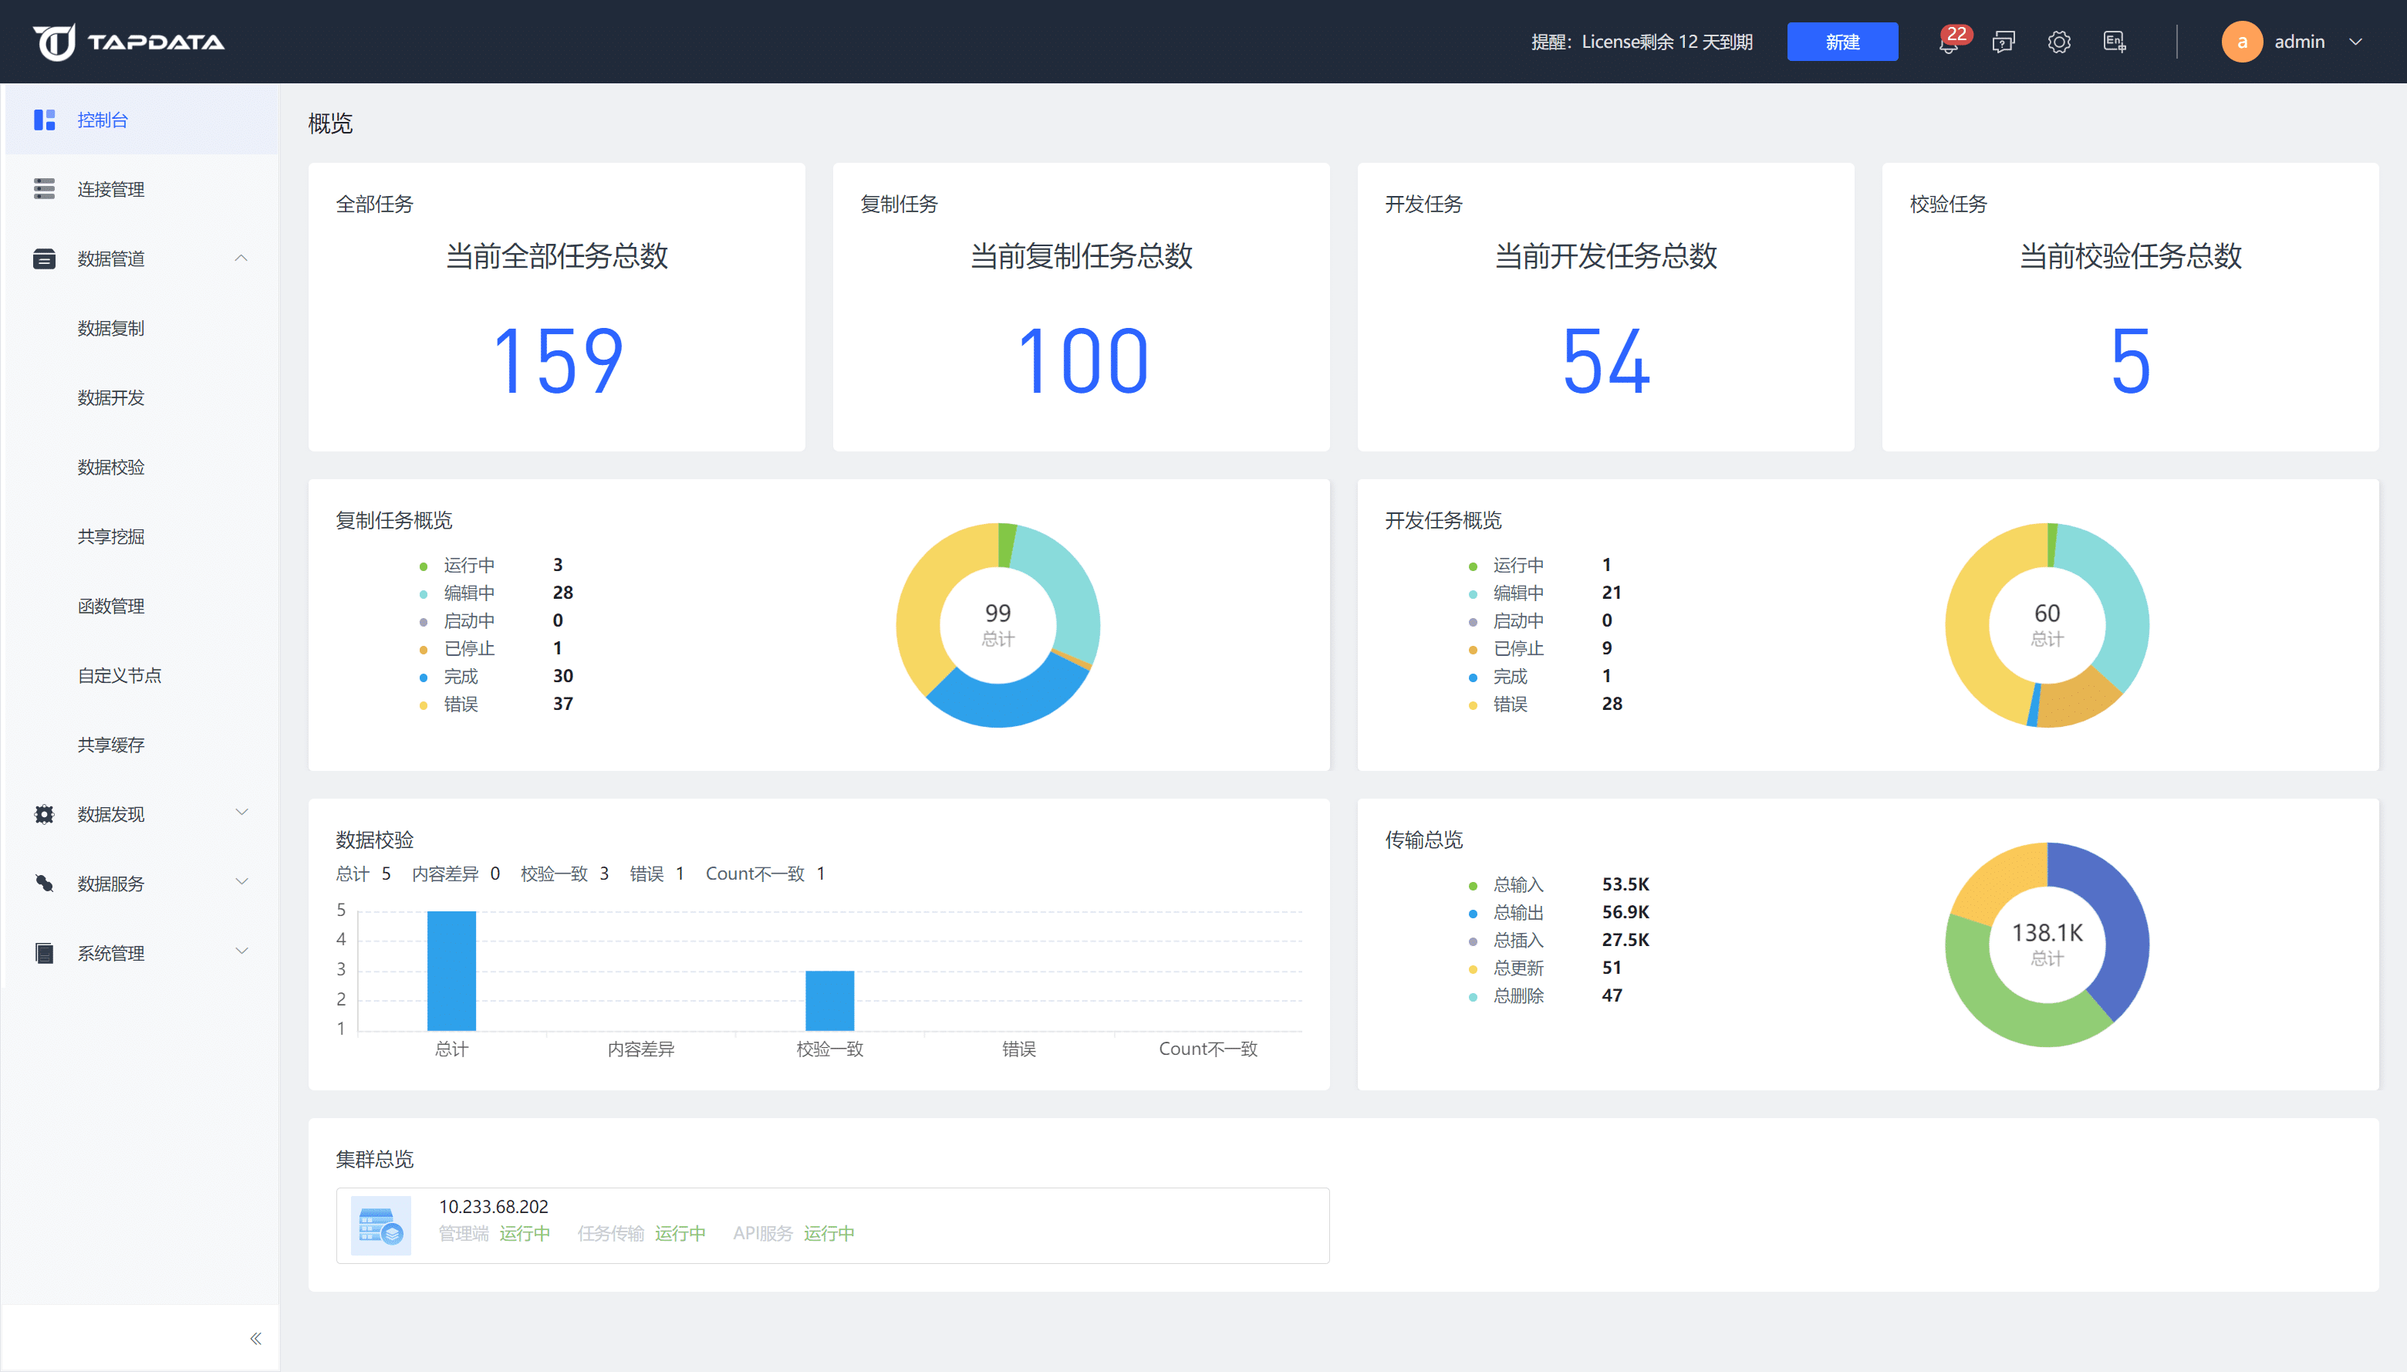
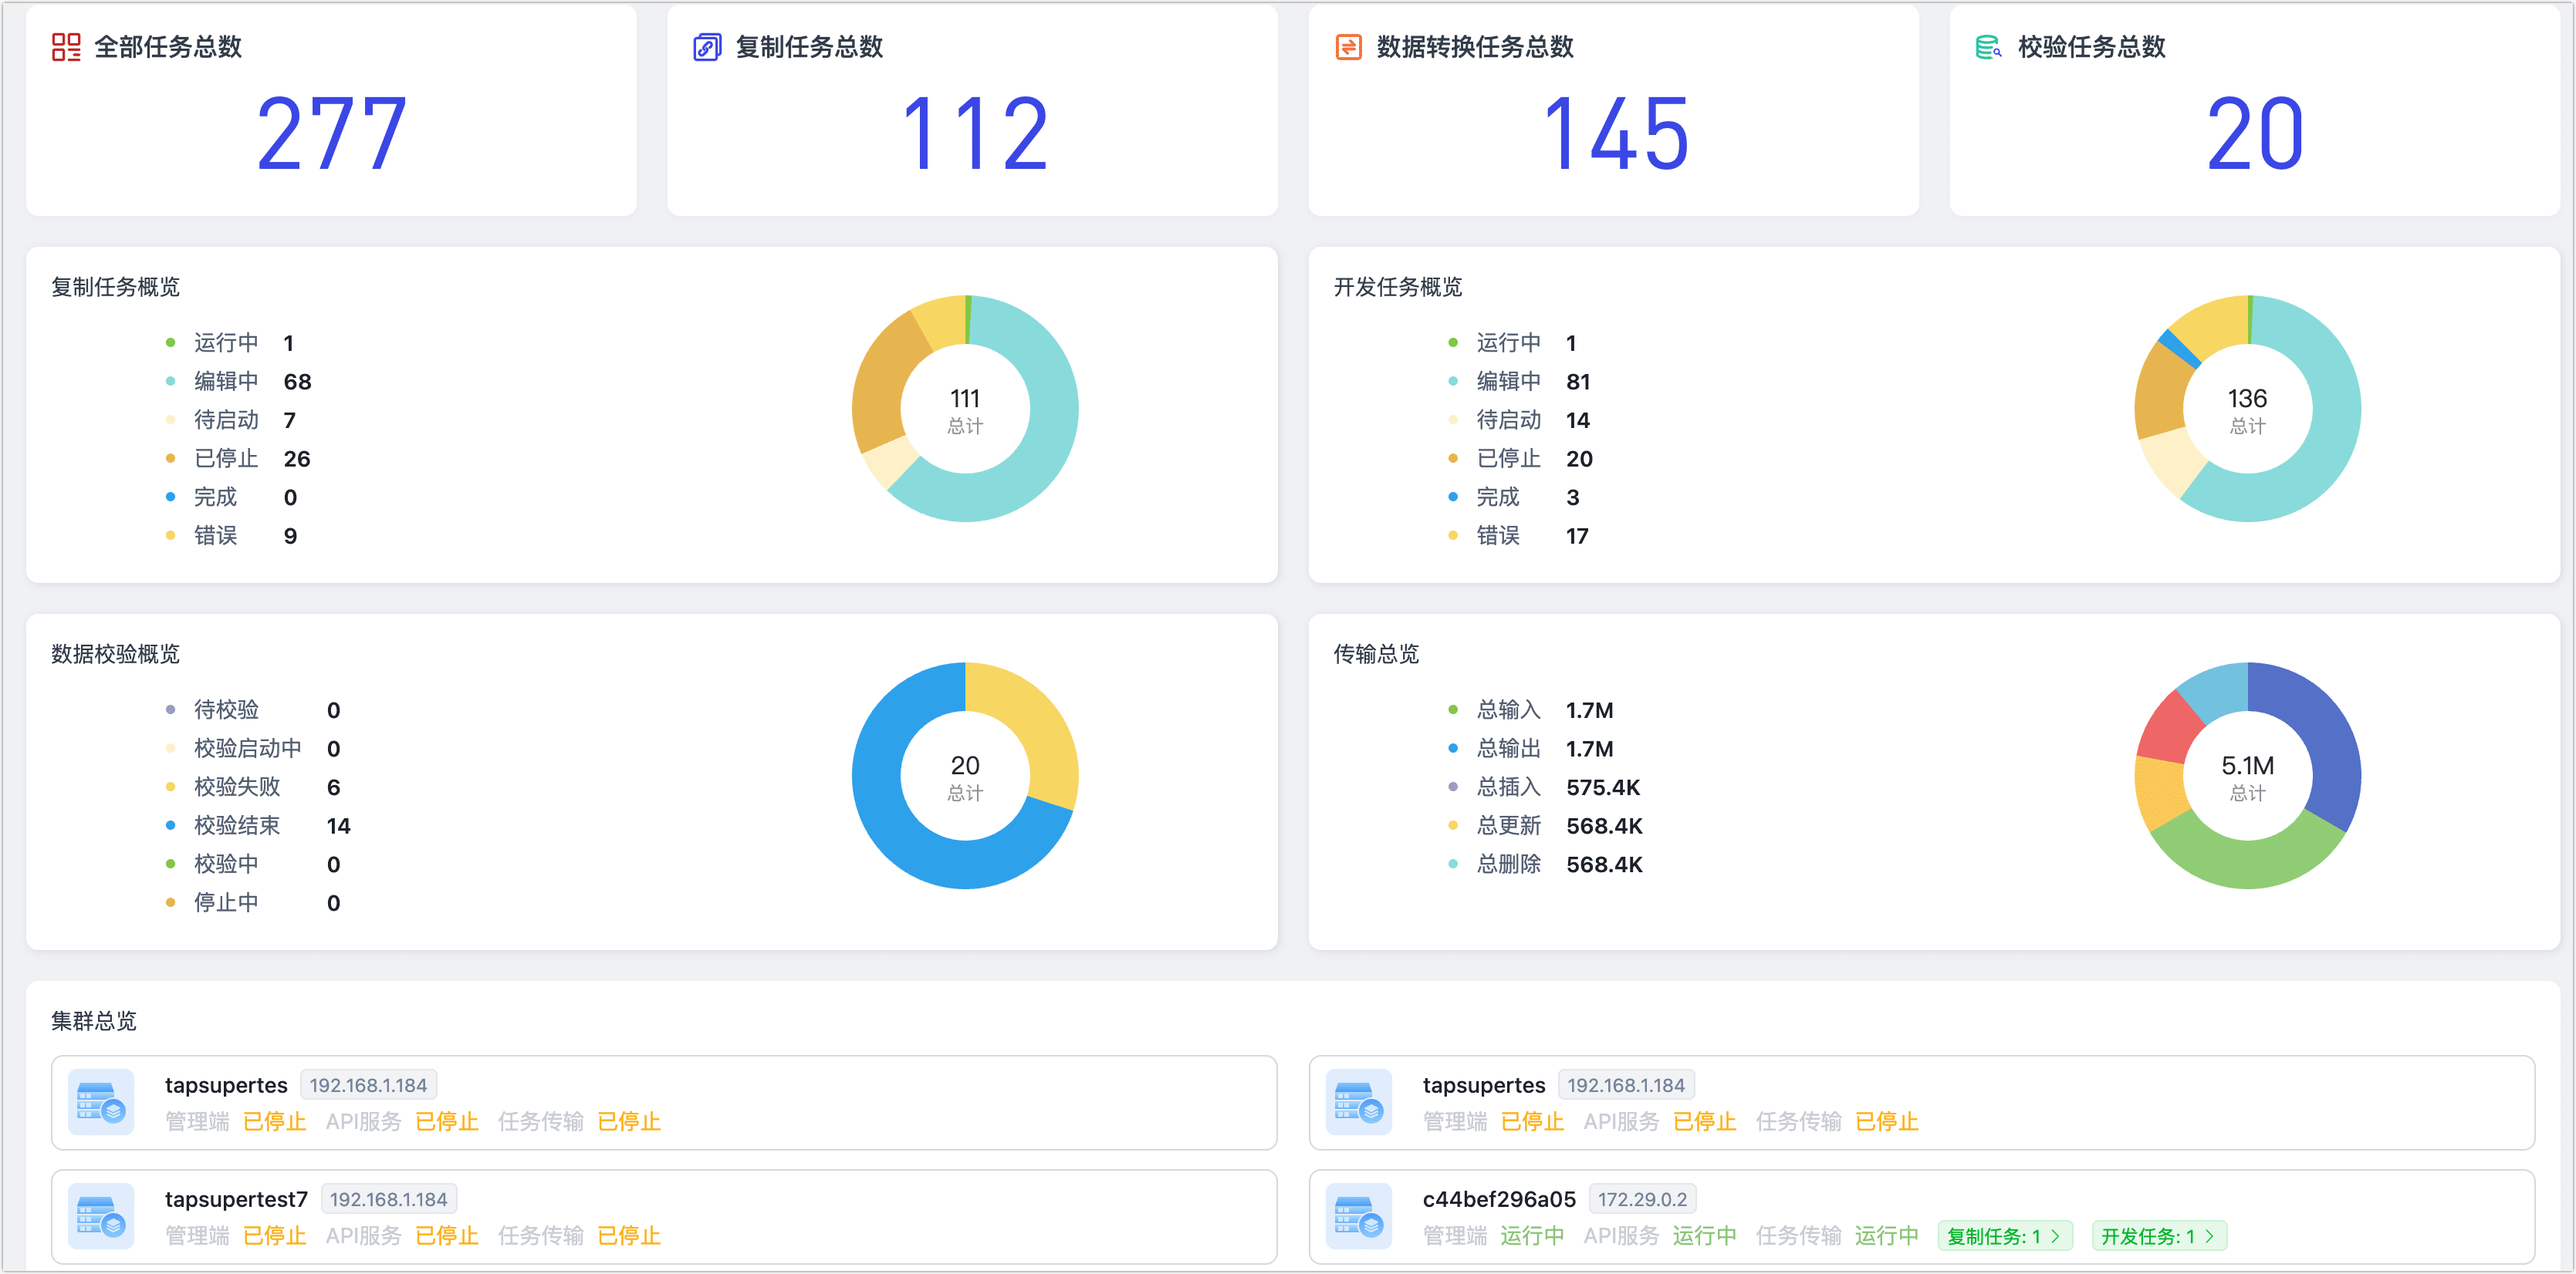
Release 3.26.0 and 3.27.0

diff --git a/docs/release-notes/release-notes-on-prem.md b/docs/release-notes/release-notes-on-prem.md
@@ -6,6 +6,22 @@ import Content from '../reuse-content/_enterprise-features.md';
 
 本文介绍 TapData Enterprise V3.x 的版本更新日志，早期版本请参见 [V2.x 版本更新日志](https://docs.tapdata.net/2.0/enterprise/release-notes)。
 
+## 3.27.0
+
+### 新增功能
+
+- 首页的[集群总览页面](../user-guide/workshop.md)支持显示各节点的任务数量分布信息，帮助您更好掌握集群负载
+- [OceanBase（MySQL 模式）](../prerequisites/on-prem-databases/oceanbase.md)、[OceanBase（Oracle 模式）](../prerequisites/on-prem-databases/oceanbase-oracle.md)、[GaussDB（DWS）](../prerequisites/warehouses-and-lake/gaussdb.md)已通过 TapData 认证测试流程，升级为[认证级别数据源](../prerequisites/supported-databases.md)，提供更丰富的特性和更高的生产稳定性
+- 数据复制任务支持将多个表写入 Kafka 的同一 Topic，丰富写入场景支持度
+
+### 功能优化
+
+- 优化模型展示效果，调整主键、外键和唯一索引的展示方式，提升模型可读性与编辑效率
+
+### 问题修复
+
+- 修复多 mongos 节点场景下连接请求未均匀分发的问题，消除潜在的单点性能瓶颈
+
 ## 3.26.0
 
 ### 新增功能
@@ -15,7 +31,7 @@ import Content from '../reuse-content/_enterprise-features.md';
 
 ### 功能优化
 
-* 优化数据校验功能，添加快速速定位和空值优先选项帮助快速检索信息
+* 优化数据校验功能，添加快速定位和空值优先选项帮助过滤信息
 
 ## 3.25.0
 

diff --git a/docs/release-notes/release-notes-community.md b/docs/release-notes/release-notes-community.md
@@ -6,6 +6,20 @@ import Content from '../reuse-content/_community-features.md';
 
 本文介绍 TapData Community 近期版本的更新日志，更多早期版本，请参见 [GitHub Release 页面](https://github.com/tapdata/tapdata/releases)。
 
+### 新增功能
+
+- 首页的[集群总览页面](../user-guide/workshop.md)支持显示各节点的任务数量分布信息，帮助您更好掌握集群负载
+- [OceanBase（MySQL 模式）](../prerequisites/on-prem-databases/oceanbase.md)、[GaussDB（DWS）](../prerequisites/warehouses-and-lake/gaussdb.md)已通过 TapData 认证测试流程，升级为[认证级别数据源](../prerequisites/supported-databases.md)，提供更丰富的特性和更高的生产稳定性
+- 数据复制任务支持将多个表写入 Kafka 的同一 Topic，丰富写入场景支持度
+
+### 功能优化
+
+- 优化模型展示效果，调整主键、外键和唯一索引的展示方式，提升模型可读性与编辑效率
+
+### 问题修复
+
+- 修复多 mongos 节点场景下连接请求未均匀分发的问题，消除潜在的单点性能瓶颈
+
 ## 3.26.0
 
 ### 新增功能

diff --git a/docs/release-notes/release-notes-cloud.md b/docs/release-notes/release-notes-cloud.md
@@ -17,7 +17,23 @@ import TabItem from '@theme/TabItem';
   <TabItem value="2025 年" default>
 ```
 
-### 2025-04-11
+### 2025-04-14
+
+#### 新增功能
+
+- 首页的[集群总览页面](../user-guide/workshop.md)支持显示各节点的任务数量分布信息，帮助您更好掌握集群负载
+- [OceanBase（MySQL 模式）](../prerequisites/on-prem-databases/oceanbase.md)、[OceanBase（Oracle 模式）](../prerequisites/on-prem-databases/oceanbase-oracle.md)、[GaussDB（DWS）](../prerequisites/warehouses-and-lake/gaussdb.md)已通过 TapData 认证测试流程，升级为[认证级别数据源](../prerequisites/supported-databases.md)，提供更丰富的特性和更高的生产稳定性
+- 数据复制任务支持将多个表写入 Kafka 的同一 Topic，丰富写入场景支持度
+
+#### 功能优化
+
+- 优化模型展示效果，调整主键、外键和唯一索引的展示方式，提升模型可读性与编辑效率
+
+#### 问题修复
+
+- 修复多 mongos 节点场景下连接请求未均匀分发的问题，消除潜在的单点性能瓶颈
+
+### 2025-04-02
 
 #### 新增功能
 

diff --git a/docs/prerequisites/on-prem-databases/dameng.md b/docs/prerequisites/on-prem-databases/dameng.md
@@ -112,7 +112,7 @@ DM 7.x 和 8.x 版本（单机架构）
       
       -- 配置本地归档，DEST 指定的目录不存在时会自动创建
       -- FILE_SIZE 表示单个归档文件大小，单位为 MB；SPACE_LIMIT 表示空间大小限制，取值为 0 表示不限制，后续可通过命令定期清理
-      ALTER DATABASE ADD ARCHIVELOG 'DEST = /bak/dmdata/dameng, TYPE = local, FILE_SIZE = 1024, SPACE_LIMIT = 0';
+      ALTER DATABASE ADD ARCHIVELOG 'DEST = /bak/dmdata/dameng, TYPE = local, FILE_SIZE = 128, SPACE_LIMIT = 0';
       
       -- 开启归档模式
       ALTER DATABASE ARCHIVELOG;
